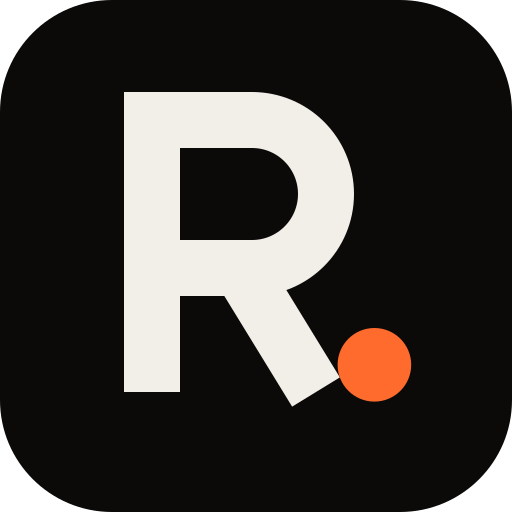
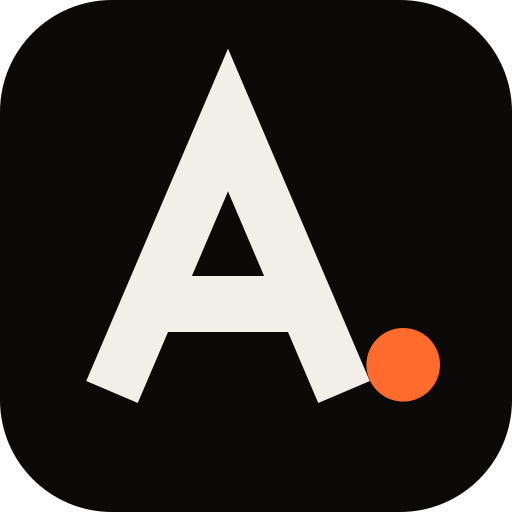
Cambia la marca de Relevo IA a Ahlan IA
Textos, metadatos, logotipo, pie, páginas legales, manifest, favicons
(nueva "A"), imagen OG y nombre del paquete. Los juegos de palabras con
"relevo" quedan pendientes de aprobación.

Claude-Session: https://claude.ai/code/session_01NJhJ6zCad3cshqoCQZ962U

Changed region(s): [[0.1562, 0.0938, 0.875, 0.8125]]

diff --git a/web/src/config/site.ts b/web/src/config/site.ts
@@ -1,6 +1,6 @@
 /**
  * ============================================================================
- *  CONFIGURACIÓN DE LA WEB DE RELEVO IA
+ *  CONFIGURACIÓN DE LA WEB DE AHLAN IA
  * ============================================================================
  *
  *  Este es el ÚNICO archivo que tienes que tocar para cambiar los datos de la
@@ -31,14 +31,14 @@ export interface SiteConfig {
 }
 
 export const site: SiteConfig = {
-  // Nombre con el que se conoce la marca. Úsalo siempre completo: "Relevo IA".
-  nombreComercial: 'Relevo IA',
+  // Nombre con el que se conoce la marca. Úsalo siempre completo: "Ahlan IA".
+  nombreComercial: 'Ahlan IA',
 
   // Nombre de la persona o empresa titular (autónomo o sociedad), tal y como
   // aparece en Hacienda. Sale en el pie, en el aviso legal y en la privacidad.
   // [PENDIENTE: NOMBRE LEGAL] provisional: cambiar por el nombre del DNI/NIE
   // (autónomo) o el de la sociedad antes de poner legalCompleto: true.
-  nombreLegal: 'Relevo IA',
+  nombreLegal: 'Ahlan IA',
 
   // NIF o CIF del titular.
   nif: '[PENDIENTE: NIF]',
@@ -59,7 +59,7 @@ export const site: SiteConfig = {
   // Si cambias el número de arriba, cambia también los dígitos de aquí
   // (34 + número, sin espacios ni el signo +).
   whatsappUrl:
-    'https://wa.me/34613657130?text=Hola%2C%20quiero%20informaci%C3%B3n%20sobre%20Relevo%20IA',
+    'https://wa.me/34613657130?text=Hola%2C%20quiero%20informaci%C3%B3n%20sobre%20Ahlan%20IA',
 
   // [PENDIENTE: DOMINIO] cambiar por el dominio definitivo
   // Dirección completa de la web, con https:// y sin barra al final.
@@ -142,11 +142,11 @@ export function navHref(id: string, isHome: boolean): string {
 
 /** Textos SEO por defecto. */
 export const seo = {
-  titleHome: 'Relevo IA · Agentes de IA para WhatsApp',
+  titleHome: 'Ahlan IA · Agentes de IA para WhatsApp',
   description:
     'Diseñamos, montamos y mantenemos agentes de IA que atienden a tus clientes por WhatsApp, los cualifican, agendan citas y avisan a tu equipo cuando hace falta.',
   ogImage: '/og.png',
-  ogImageAlt: 'Relevo IA · Agentes de IA para WhatsApp',
+  ogImageAlt: 'Ahlan IA · Agentes de IA para WhatsApp',
   themeColor: '#0B0A09',
   locale: 'es_ES',
 } as const;

diff --git a/web/src/scripts/sections/agent.ts b/web/src/scripts/sections/agent.ts
@@ -109,7 +109,7 @@ export function init(ctx: SectionContext): void {
         cleanup = mode === 'desktop' ? buildDesktop() : buildTouch();
       } catch (err) {
         // Nunca dejar la conversación oculta: vuelta a la versión estática.
-        console.error('[relevo] 7.3 no pudo iniciar la animación:', err);
+        console.error('[ahlan] 7.3 no pudo iniciar la animación:', err);
         root.classList.remove('is-live', 'is-pinned');
         gsap.set(animated, { clearProps: 'all' });
       }

diff --git a/web/src/scripts/sections/footer.ts b/web/src/scripts/sections/footer.ts
@@ -1,7 +1,7 @@
 /**
  * 7.8 Pie — animación ([data-footer]). PROPIETARIO: Sección D.
  *
- * Marca gigante "Relevo·IA" que se revela al llegar al final de la página:
+ * Marca gigante "Ahlan·IA" que se revela al llegar al final de la página:
  *   desktop → las letras suben desde su máscara ligadas al scroll (scrub 0.8,
  *             ease 'none') mientras la marca entra en pantalla; al tocar fondo,
  *             el testigo naranja aparece con un acento expo.out (el "relevo").

diff --git a/web/src/styles/global.css b/web/src/styles/global.css
@@ -1,5 +1,5 @@
 /* ==========================================================================
-   Relevo IA · Estilos globales
+   Ahlan IA · Estilos globales
    Orden: fuentes → reset → base → tipografía → utilidades → enlaces/botones
           → foco → [PENDIENTE] → grano → patrón sin-JS → View Transitions
    El CSS propio de cada sección vive en su componente (<style> con scope).

diff --git a/web/src/styles/tokens.css b/web/src/styles/tokens.css
@@ -1,5 +1,5 @@
 /* ==========================================================================
-   Relevo IA · Design tokens
+   Ahlan IA · Design tokens
    Única fuente de verdad para color, tipografía, espacio, radios, movimiento
    y capas. Las secciones SOLO deben usar estas variables (nada de hex sueltos).
    ========================================================================== */

diff --git a/web/src/scripts/main.ts b/web/src/scripts/main.ts
@@ -200,7 +200,7 @@ function initSection([selector, init, name]: (typeof SECTIONS)[number]): void {
     init(ctx);
   } catch (err) {
     // Una sección rota no puede dejar contenido oculto ni bloquear al resto.
-    console.error(`[relevo] La sección "${name}" falló al iniciar:`, err);
+    console.error(`[ahlan] La sección "${name}" falló al iniciar:`, err);
     showAll(root);
   }
 }

diff --git a/web/src/integrations/pending-report.ts b/web/src/integrations/pending-report.ts
@@ -172,7 +172,7 @@ function report(
 export default function pendingReport(): AstroIntegration {
   let root = process.cwd();
   return {
-    name: 'relevo-pending-report',
+    name: 'ahlan-pending-report',
     hooks: {
       'astro:config:done': ({ config }) => {
         root = fileURLToPath(config.root);
